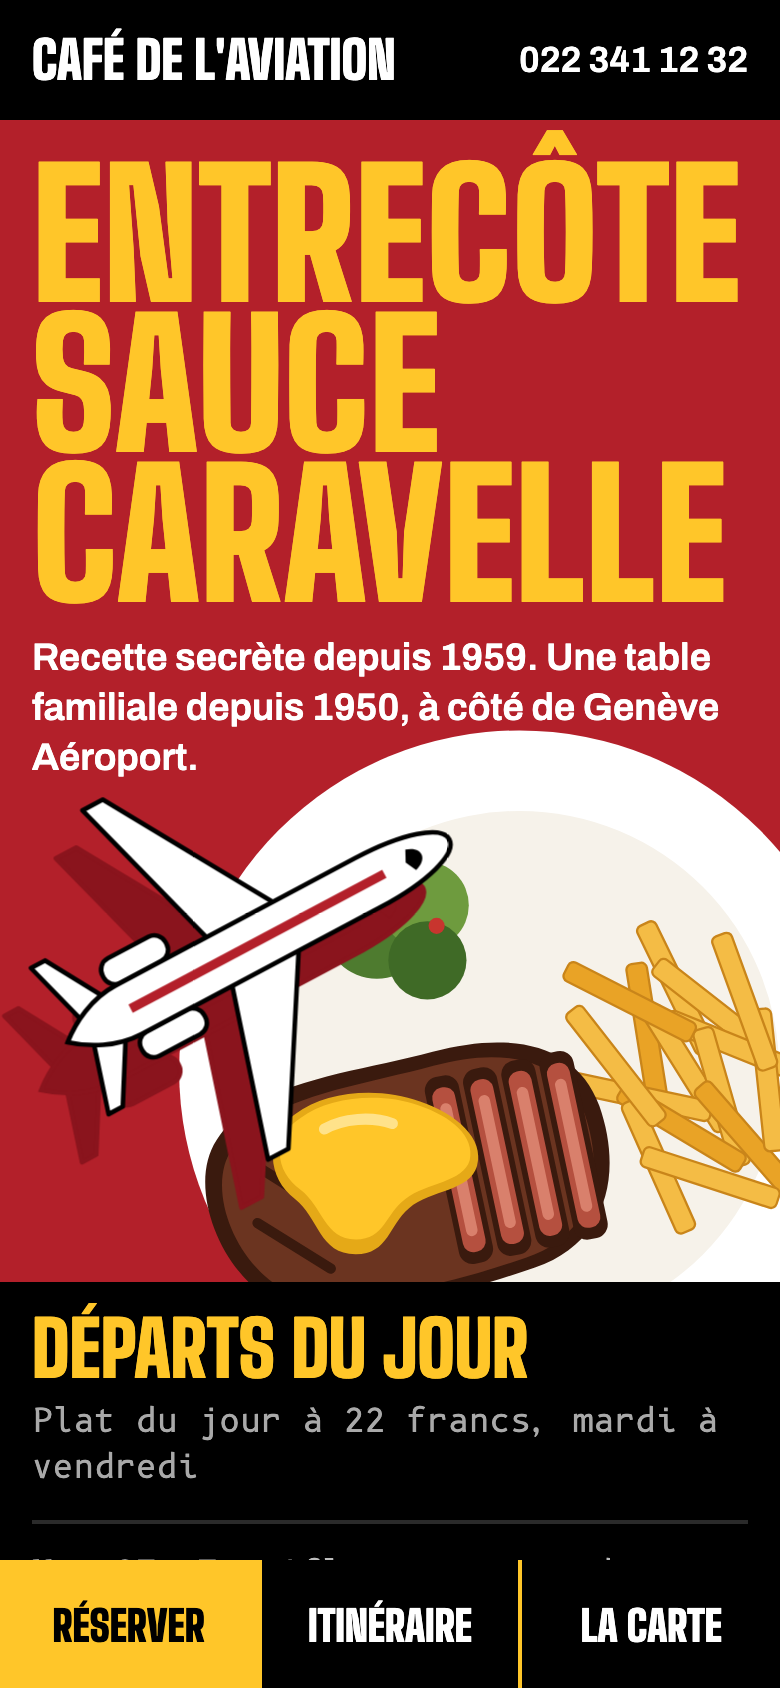
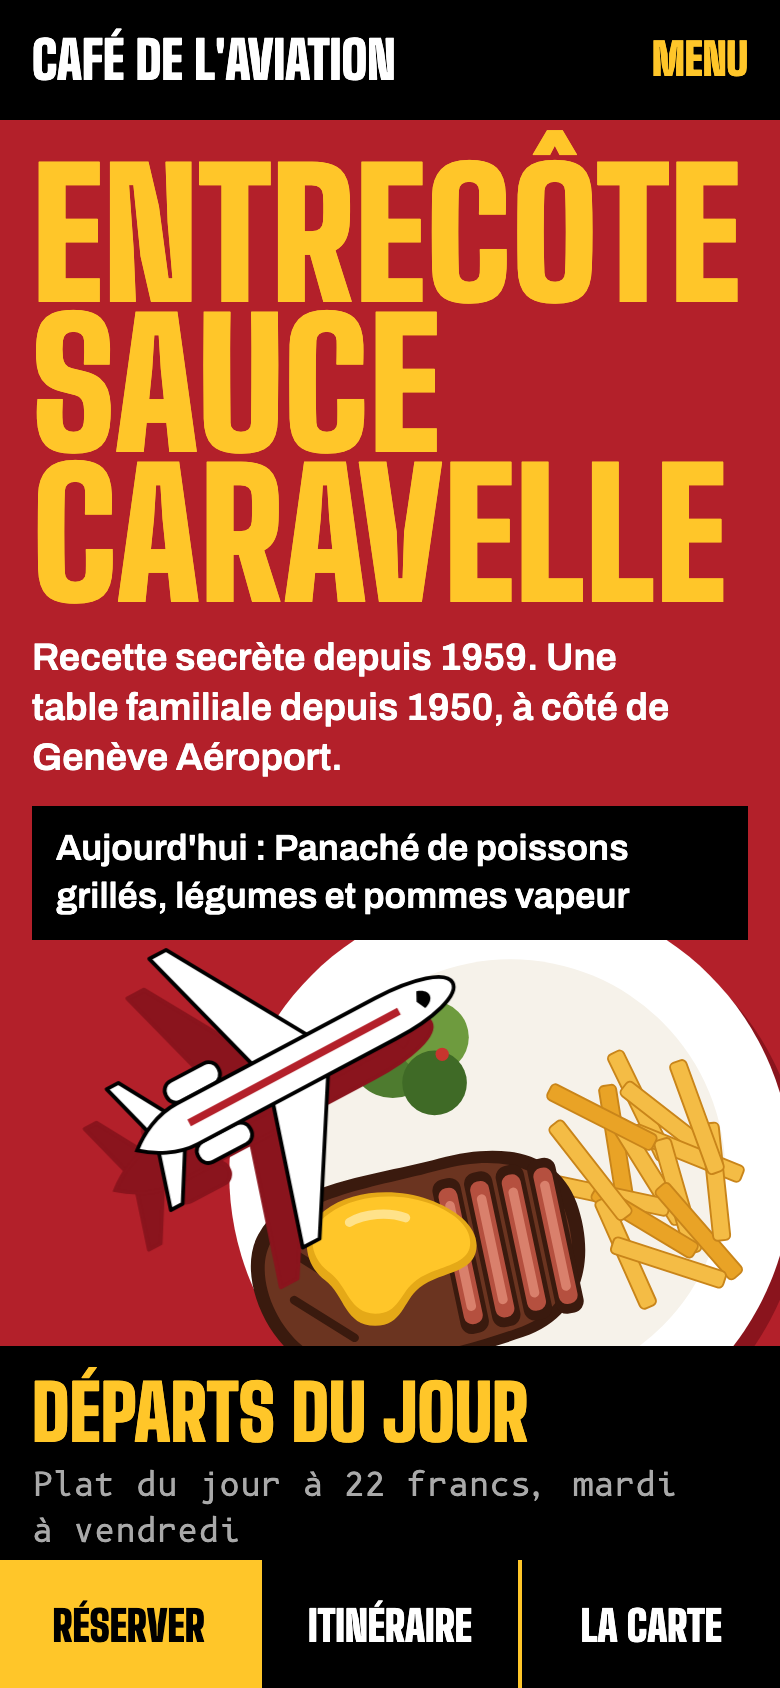
Audit : menu mobile, encoches, tokens et documentation

diff --git a/src/styles/global.css b/src/styles/global.css
@@ -11,13 +11,14 @@
   --blanc:#fff;
   --gris-filet:#2A2A2A;
   --gris-tableau:#A9A9A9;
+  --gris-passe:#BDBDBD;
   --gris-texte:#3A3A3A;
 
   --titre:"Big Shoulders Display",Impact,"Arial Narrow",sans-serif;
   --texte:Archivo,system-ui,sans-serif;
   --donnee:"B612 Mono",ui-monospace,monospace;
 
-  --gut:clamp(16px,2.4vw,32px);
+  --gut:max(clamp(16px,2.4vw,32px),env(safe-area-inset-left),env(safe-area-inset-right));
   --section:clamp(36px,5vw,64px);
   --barre:64px;
   --cible:44px;
@@ -34,6 +35,7 @@ ul,ol{list-style:none;padding:0}
 [id]{scroll-margin-top:12px}
 
 h2,h3{text-wrap:balance}
+p{text-wrap:pretty}
 .titre{font-family:var(--titre);font-weight:900;text-transform:uppercase;line-height:.88}
 .h2{font-size:clamp(52px,8.4vw,124px)}
 .visually-hidden{position:absolute;width:1px;height:1px;overflow:hidden;clip-path:inset(50%);white-space:nowrap}

diff --git a/docs/DESIGN_SYSTEM.md b/docs/DESIGN_SYSTEM.md
@@ -10,6 +10,11 @@ Direction validée : **B, Salle des départs**, avec le hublot de A pour les pho
 | `ui-ux-pro-max` | `--design-system` : rouge et or pour l'appétit, éviter images médiocres et horaires périmés. Règles UX sur l'alt, le mouvement limité à 1 ou 2 éléments, le survol. Police Playfair et schéma en entonnoir écartés, conformément au `CLAUDE.md` |
 | `web-design-guidelines` | Audit, voir plus bas |
 
+**Deuxième passe, dans l'ordre :**
+1. `ui-ux-pro-max` a audité les parcours du brief : l'hôtel et les groupes étaient absents de l'accueil, et le plat du jour trop loin sur mobile. Section Faire escale, menu mobile, raccourci Aujourd'hui et jours passés réduits en découlent.
+2. `frontend-design` a traité le bas de page, qui ressemblait à une pile de blocs : coulure de sauce, fuselage, hublot relié au fuselage, signature.
+3. `web-design-guidelines` a audité le code final.
+
 Prototype : `src/`. Lancement :
 
 ```bash
@@ -105,6 +110,24 @@ Liste ordonnée de jours, avec un `<time>` par plat. Colonnes au bureau, lignes 
 
 La date de référence est toujours celle de **Genève**, pas celle de l'appareil.
 
+### Menu mobile
+`<details>` natif : fonctionne sans JavaScript pour l'ouverture. Se referme au choix d'un lien, sur Échap et au clic extérieur, avec le focus rendu au bouton. Remplace le téléphone de l'en-tête, déjà présent dans la barre.
+
+### Raccourci « Aujourd'hui »
+Sur mobile uniquement, sous la promesse : le plat du jour, cliquable vers le tableau. Sinon l'annonce du jour, ou un lien vers les plats sans JavaScript. Sa hauteur est réservée pour éviter tout décalage.
+
+### Coulure de sauce
+Frontière entre la flotte et la sauce, en SVG. Les gouttes s'allongent au défilement avec `animation-timeline`. Si le navigateur ne le gère pas ou si reduced-motion est actif, elles sont simplement complètes.
+
+### Fuselage
+Bande blanche à hublots triangulaires et filet sauce, en ouverture d'« À bord ». Décorative, masquée aux lecteurs d'écran. Le grand hublot photo la chevauche.
+
+### Faire escale
+Hôtel et groupes sur l'accueil, avec contact téléphonique en attendant les formulaires WhatsApp du lot 3.
+
+### Signature
+Le nom du restaurant en pleine largeur dans le pied de page.
+
 ### Bouton Réserver
 Fond sauce, texte noir, numéro de téléphone visible dans le libellé. Masqué sur mobile, où la barre le remplace.
 
@@ -128,6 +151,7 @@ Forme unique de toutes les photos : un triangle arrondi, repris de la Caravelle.
 | Élément | Repos | Survol | Actif | Focus clavier |
 |---|---|---|---|---|
 | Lien d'en-tête | Blanc | Sauce | | Contour 3 px |
+| Menu mobile | Sauce | | Ouvert sous l'en-tête | Contour 3 px |
 | Bouton Réserver | Sauce | Blanc | Décalage de 1 px | Contour 3 px |
 | Barre mobile | Noir, ou sauce pour Réserver | | Gris filet | Contour 3 px |
 | Caviardage | Bloc sauce | Bloc blanc | Réponse encadrée | Contour blanc 3 px |
@@ -149,11 +173,12 @@ Le message reste une demande. Aucun formulaire de réservation de table.
 
 | Animation | Déclencheur | Durée | Reduced-motion |
 |---|---|---|---|
+| Coulure de sauce | Défilement, CSS natif | Liée au défilement | Complète, sans mouvement |
 | La Caravelle arrive sur la table | Chargement, une seule fois | 1,5 s, `transform` seulement | Avion déjà en place |
 | Tableau à palettes sur le statut du jour | Chargement, une seule fois | Moins d'une seconde | Texte direct, contrôlé |
 | Défilement doux vers les ancres | Clic | Navigateur | Désactivé par la règle CSS |
 
-Aucune bibliothèque d'animation. Aucune animation au défilement. Toute nouvelle animation doit dire à quoi elle sert.
+Aucune bibliothèque d'animation. La coulure est la seule animation au défilement. Toute nouvelle animation doit dire à quoi elle sert.
 
 ## Accessibilité
 
@@ -177,10 +202,10 @@ Vérifications du 30.10.2026 sous Node 26.13.0, avec Astro 7.4.4.
 | SEO, même page sans `noindex` | ≥ 95 | **100** |
 | LCP | < 2,5 s | **1,1 s** |
 | CLS | < 0,1 | **0** |
-| JS de l'accueil | < 100 Ko gzip | **0,7 Ko** |
-| Poids total | | 156 Ko |
+| JS de l'accueil | < 100 Ko gzip | **0,9 Ko** |
+| Poids total | | 163 Ko |
 
-**Sur l'adresse en ligne `laviation-demo.vercel.app`, même jour :** performance 100, accessibilité 100, bonnes pratiques 100, SEO 66 à cause du `noindex` volontaire, LCP 0,8 s, CLS 0, 129 Ko.
+Le tableau ci-dessus est mesuré sur la version finale, en local.
 
 ### Tests
 
@@ -203,7 +228,7 @@ Vérifications du 30.10.2026 sous Node 26.13.0, avec Astro 7.4.4.
 
 Non applicable : la règle de capitales sur les titres anglais, et la deuxième personne, car le texte vient du restaurant.
 
-**Après la révision :** relecture du nouveau code selon les mêmes règles, sans nouveau constat. Tests, états, clavier et Lighthouse ont été relancés sur cette version.
+**Passe complète après les parcours et la révision visuelle :** aucun bloquant. Deux importants corrigés : fermeture du menu mobile (Échap, clic extérieur) et marges d'encoche. Quatre mineurs corrigés : identifiants dupliqués sur `/etats/`, deux couleurs en dur, mots orphelins. Tests, états, clavier et Lighthouse relancés ensuite.
 
 ### Non vérifié
 
